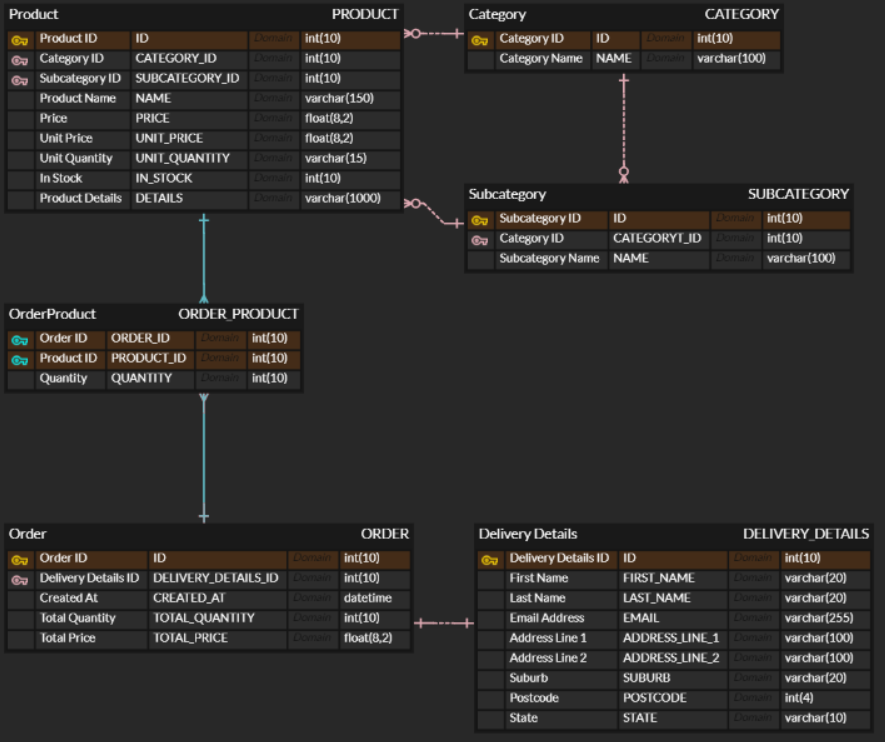
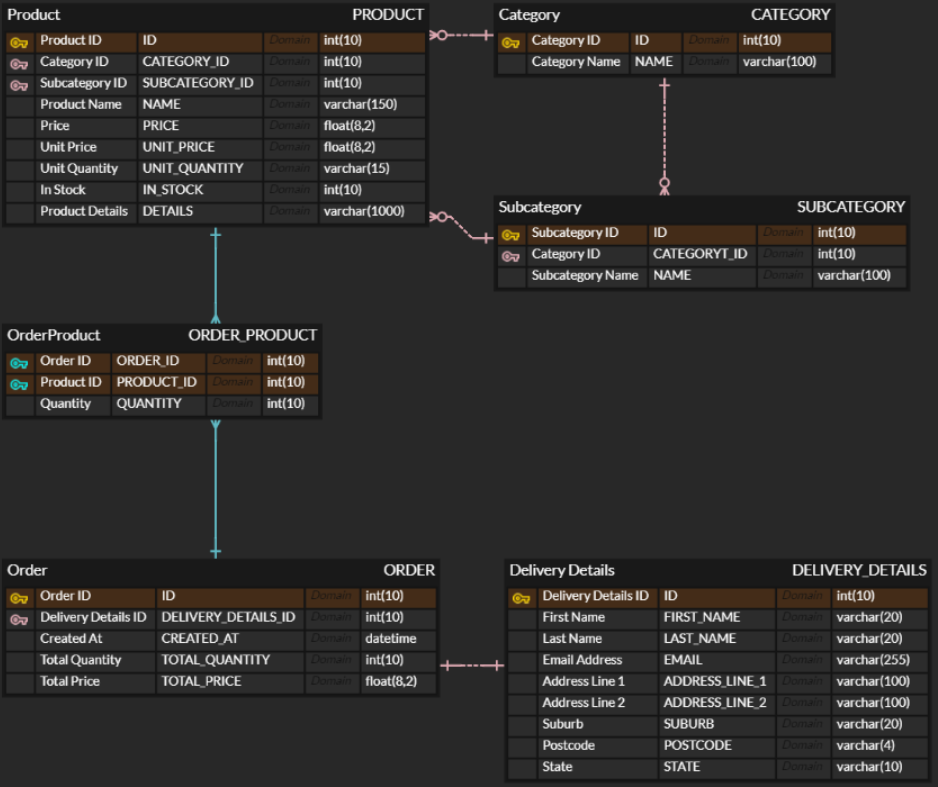
fix: wrong validation for postcode

diff --git a/backend/src/features/orders/dto/delivery-details.dto.ts b/backend/src/features/orders/dto/delivery-details.dto.ts
@@ -1,12 +1,11 @@
 import {
   IsAlpha,
   IsEmail,
-  IsInt,
   IsNotEmpty,
+  IsNumberString,
   IsString,
-  Max,
   MaxLength,
-  Min,
+  MinLength,
 } from 'class-validator';
 
 export class DeliveryDetailsDto {
@@ -41,10 +40,10 @@ export class DeliveryDetailsDto {
   suburb: string;
 
   @IsNotEmpty()
-  @IsInt()
-  @Min(1000)
-  @Max(9999)
-  postcode: number;
+  @IsNumberString()
+  @MinLength(4)
+  @MaxLength(4)
+  postcode: string;
 
   @IsNotEmpty()
   @IsAlpha()

diff --git a/backend/src/features/orders/delivery-details.entity.ts b/backend/src/features/orders/delivery-details.entity.ts
@@ -24,8 +24,8 @@ export class DeliveryDetails {
   @Column('varchar', { length: 20 })
   suburb: string;
 
-  @Column('int')
-  postcode: number;
+  @Column('varchar', { length: 4 })
+  postcode: string;
 
   @Column('varchar', { length: 10 })
   state: string;

diff --git a/backend/src/db/sql/README.MD b/backend/src/db/sql/README.MD
@@ -1,0 +1,8 @@
+## Order to Initialise Database
+
+1. INIT_CATEGORY_TABLE.sql
+2. INIT_SUBCATEGORY_TABLE.sql
+3. INIT_PRODUCT_TABLE.sql
+4. INIT_DELIVERY_DETAILS_TABLE.sql
+5. INIT_ORDER_TABLE.sql
+6. INIT_ORDER_PRODUCT_TABLE.sql
